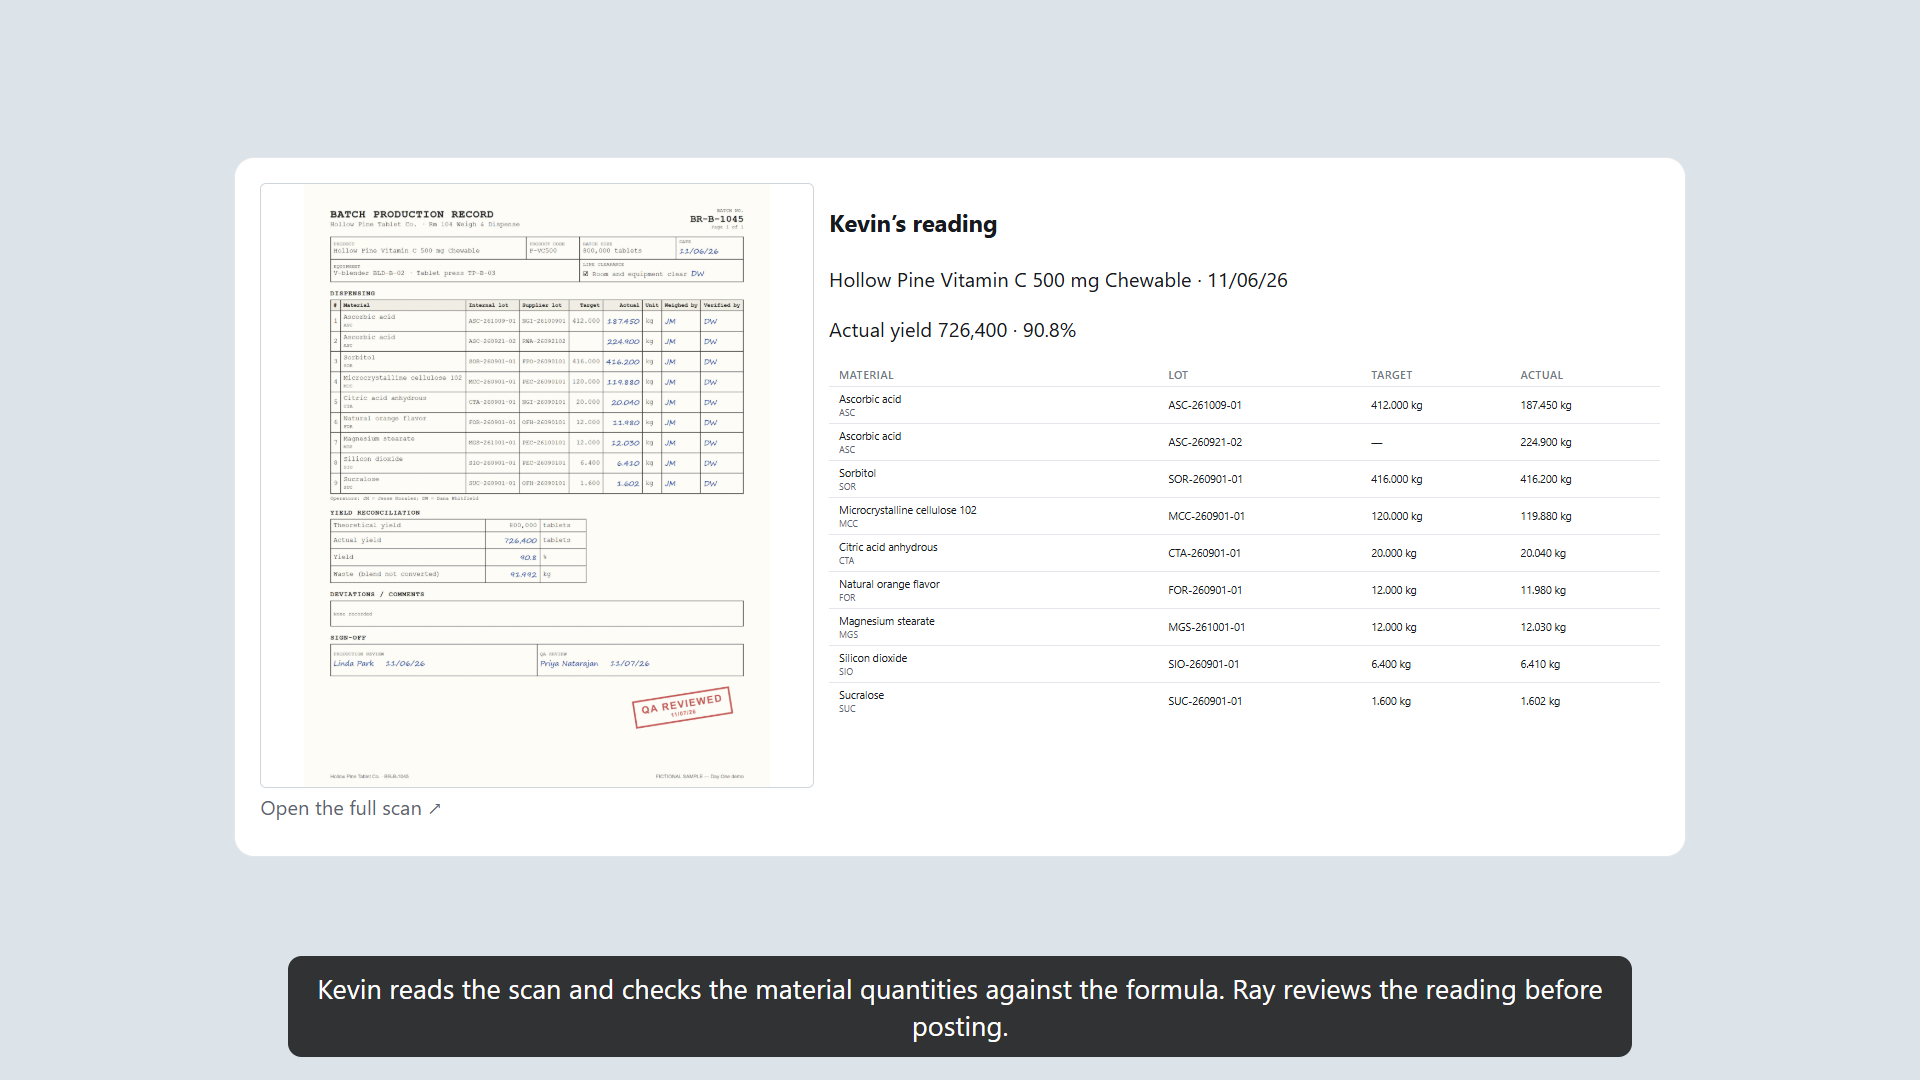
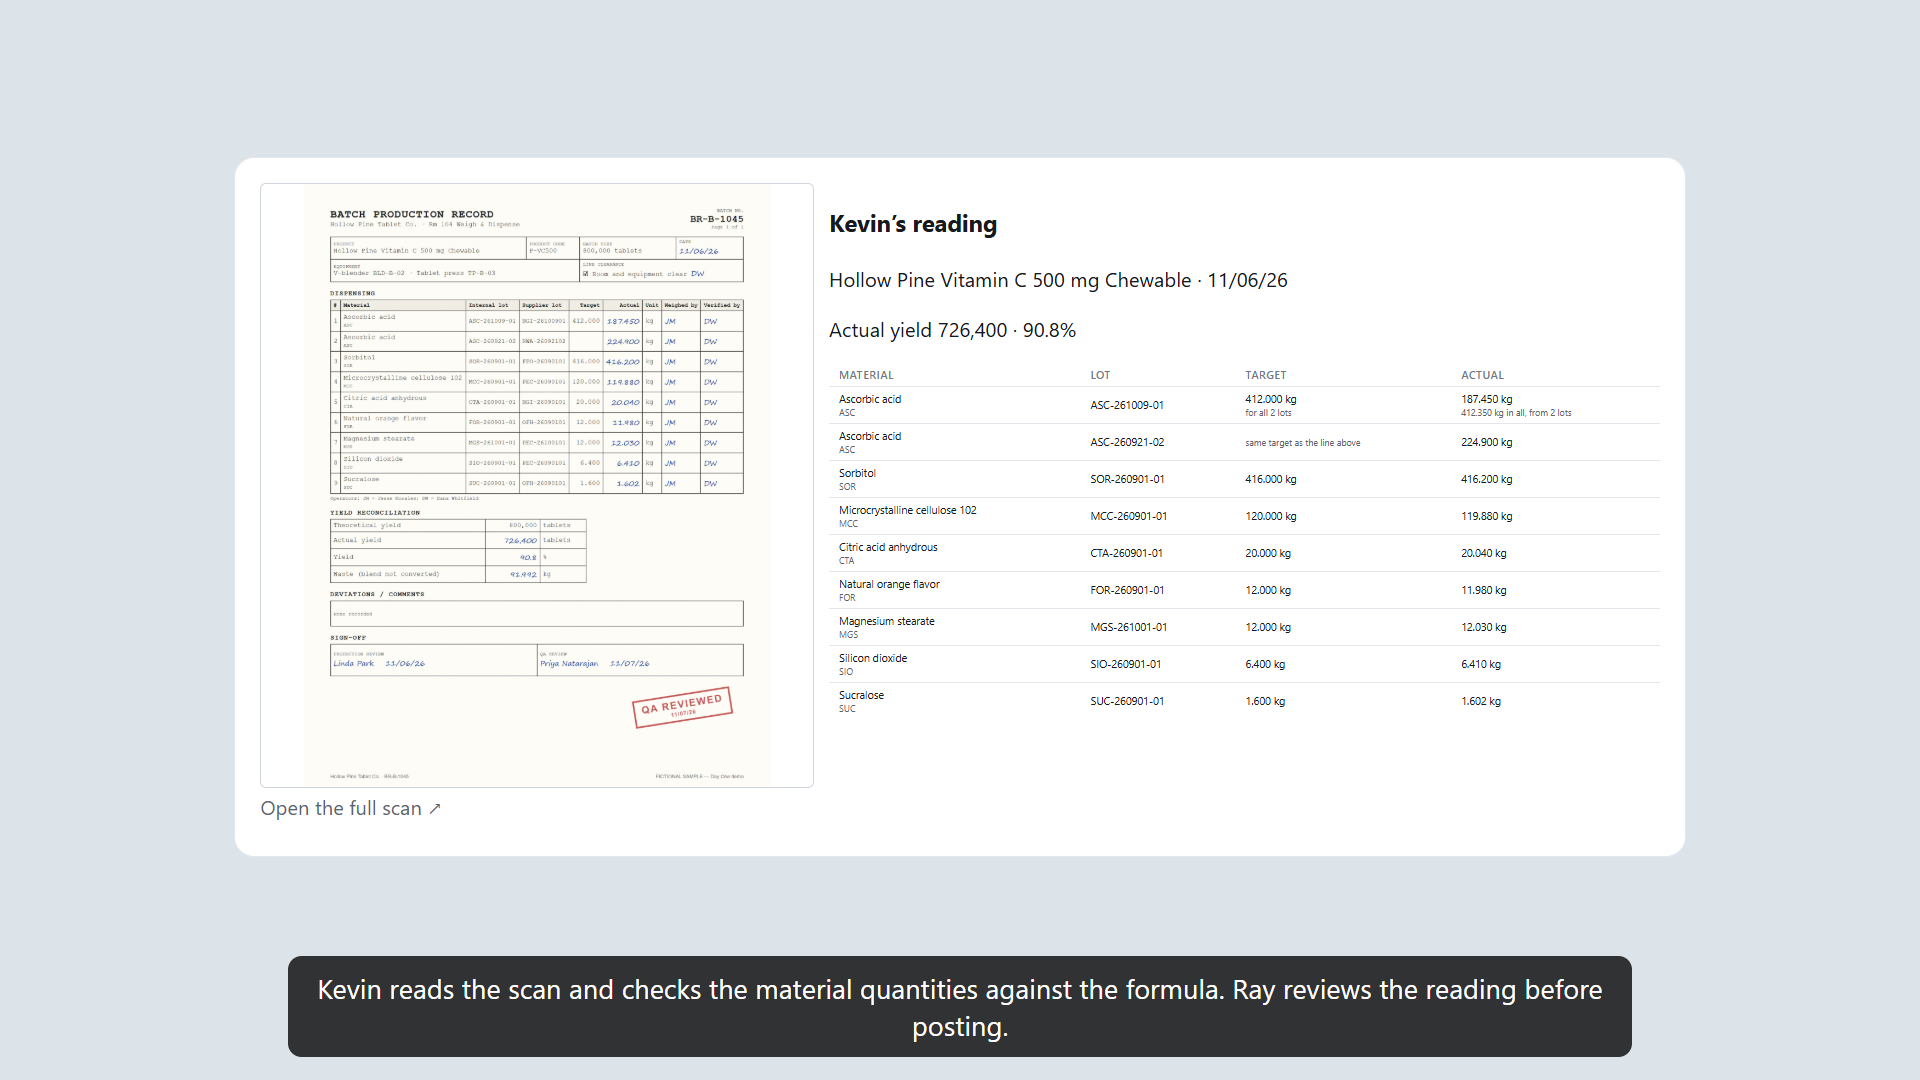
Retake the README's batch-review and Linda images, and fix two regressions the retake found
The batch reading's size container had no width of its own, so in the video cut's centred panel it collapsed to nothing; it now fills its parent and the cut sizes the wrapper. The replay's step panel keeps its "Demo steps" label and "N / M" counter, which web:shot, web:shot:3d and judge mode read; the counter now shows the step in staff words. Both README images are retaken from this build: the cut's batch-record beat at 1920x1080 and the static replay at Linda's step at 1280 wide. TAKE=order web:tour, web:tour and web:shot pass with no console errors.

diff --git a/web/src/App.tsx b/web/src/App.tsx
@@ -789,7 +789,7 @@ function ReplayApp() {
         onPlants={() => route.go({ page: "plants" })}
       />
     ) : (
-      <section className="panel next" aria-label="Replay steps">
+      <section className="panel next" aria-label="Demo steps">
         <div className="panel-head">
           <h2>Replay of the recorded week</h2>
           <span className="right small muted">
@@ -808,7 +808,10 @@ function ReplayApp() {
             Next →
           </button>
           <FeedButton />
-          <span className="step-count">{plainTitle(current)}</span>
+          {/* "N / M ·" stays: web:shot, web:shot:3d and judge mode read this counter. */}
+          <span className="step-count">
+            {at + 1} / {last + 1} · {plainTitle(current)}
+          </span>
         </div>
       </section>
     );

diff --git a/web/src/video.css b/web/src/video.css
@@ -84,8 +84,12 @@
   pointer-events: none;
 }
 
-.video-paper > .batch-reading {
+/* The reading sits in a size container (batchReading.css), which needs a width of its own:
+   centred in this grid without one, it collapsed to nothing. */
+.video-paper > .batch-reading-wrap {
   width: min(100%, 72em);
+}
+.video-paper .batch-reading {
   padding: 1.25em;
   border: 1px solid var(--line);
   border-radius: 1em;

diff --git a/web/src/batchReading.css b/web/src/batchReading.css
@@ -2,7 +2,9 @@
    place (the desk's column, ~600 px) the scan goes on top at full width and the lines under it,
    so neither is squeezed (first-use review, finding 20: a 215 px scan and lot codes on three lines). */
 .batch-reading-wrap {
+  /* A size container does not take its width from its content, so it always fills its parent. */
   container-type: inline-size;
+  width: 100%;
 }
 
 .batch-reading {

diff --git a/docs/reviews/2026-11-10_first-use.md b/docs/reviews/2026-11-10_first-use.md
@@ -145,4 +145,4 @@ Builder pass, same day. Commits: A `70f317a`, B `7e5c532`, C `4e172ea`, D `05619
 | 51 | fixed | "110.2 lb = 49.99 kg (posted exactly as 49.985879 kg)". | b664328 |
 | 52 | fixed | "6 to do", "3 to confirm", "3 low", "1 held". | b664328 |
 
-What now differs from the recorded material: `docs/readme/kevin-batch-review.png` (the two ascorbic lines now read as one target) and `docs/readme/linda-wide.png` (buttons above the reasons, shorter "Why you", dates in Handled for you, worded sidebar counts). The 2:07 cut (`?video=1&cut=order`) was not rechecked separately (the tour and the 2:15 take were); its desk frames will show the same changes.
+Retakes (Tony chose to retake, Nov 10): `docs/readme/kevin-batch-review.png` (the cut's batch-record beat, 1920×1080) and `docs/readme/linda-wide.png` (the static replay at Linda's step, 1280 wide, light) were taken again from the new build. Retaking them found two regressions from this pass, both fixed before the retake: the size container behind finding 20 collapsed the video's batch reading to zero width, and the replay panel's renamed label broke `web:shot` and judge mode's hiding of it. After the fixes `TAKE=order npm run web:tour` (the 2:07 cut), `web:tour` and `web:shot` pass with no console errors. A video already recorded from the cut shows the earlier layout in its desk frames.
